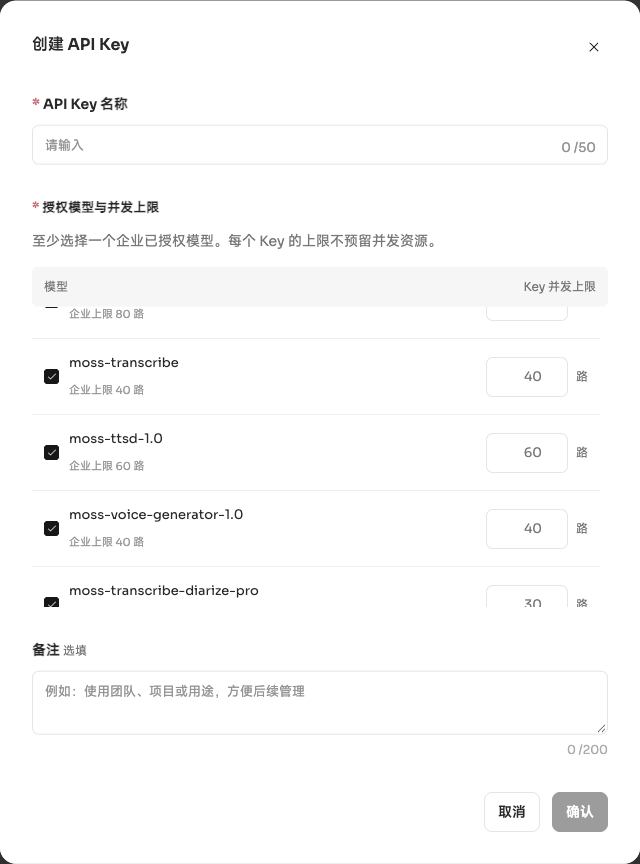
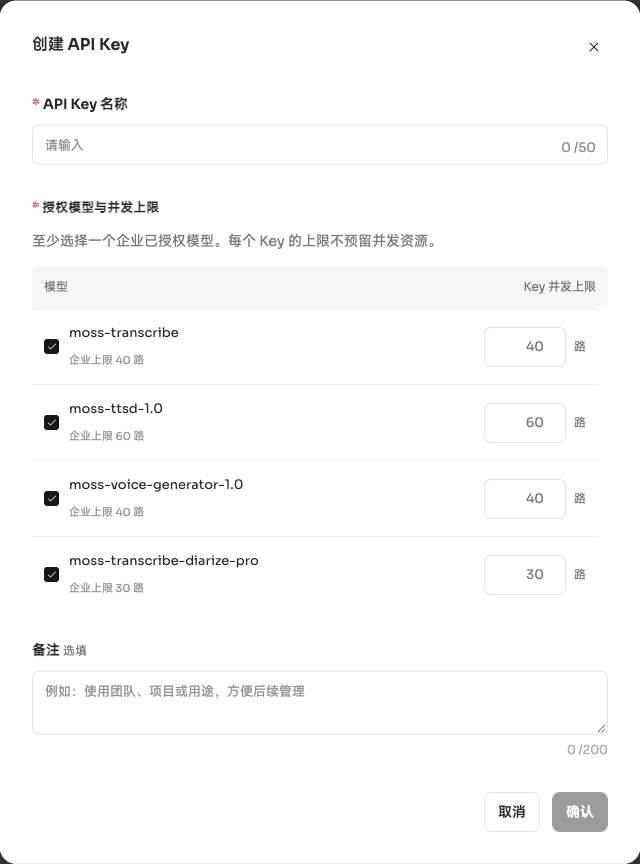
docs: replace stale scrollbar comparison screenshots

diff --git a/prd/platform/PRD-Moss-API-MVP-P0-飞书版.md b/prd/platform/PRD-Moss-API-MVP-P0-飞书版.md
@@ -156,9 +156,9 @@ Owner 能用一把 Key 对应一个项目或用途，快速知道哪些模型可
 
 用量概览 / 请求明细切换时，白色选中背景平滑移动 220ms；鼠标和键盘切换均保留当前滚动位置，不自动回到顶部，也不因内容变短向上跳动。选中页签与内容面板保持无障碍关联；系统要求减少动态效果时取消动画。企业、个人设计稿按独立区域排布。
 
-共用组件覆盖创建、编辑、启停、删除、一次性密钥、请求详情、账单预览、两种导出及积分弹窗。桌面统一 32px 内边距，窄屏 20px，标题、正文、操作区左右对齐；保留各类内容所需宽度与字号。滚动条由页面统一控制，静止时隐藏，滚动时立即显示；停止滚动 800ms 后，以 180ms 淡出。悬停或拖动滑块时保持可见，拖动结束后恢复自动隐藏。页面、横向表格、筛选菜单、授权模型列表、账单预览和导出明细共用此规则；不再因普通鼠标的系统设置而常显。滑块为 #808080，轨道透明，显示和隐藏不改变内容宽度或滚动位置；无溢出时不显示。保留原生滚轮、触控、键盘和拖动能力；减少动态效果时跳过淡出动画，高对比模式使用系统可见滚动条。表单与模型列表仅相邻行间分隔，最后一行无底线。
+共用组件覆盖创建、编辑、启停、删除、一次性密钥、请求详情、账单预览、两种导出及积分弹窗。桌面统一 32px 内边距，窄屏 20px，标题、正文、操作区左右对齐；保留各类内容所需宽度与字号。滚动条由页面统一控制，静止时隐藏，滚动时立即显示；停止滚动 800ms 后，以 180ms 淡出。悬停或拖动滑块时保持可见，拖动结束后恢复自动隐藏。页面、横向表格、筛选菜单、授权模型列表、账单预览和导出明细共用此规则；不再因普通鼠标的系统设置而常显。原生滚动条宽 10px，滑块两侧各留 1px 透明边框，可见灰色部分约 8px；下拉菜单滑块宽 8px。滑块为 #808080，轨道透明，显示和隐藏不改变内容宽度或滚动位置；无溢出时不显示。保留原生滚轮、触控、键盘和拖动能力；减少动态效果时跳过淡出动画，高对比模式使用系统可见滚动条。表单与模型列表仅相邻行间分隔，最后一行无底线。
 
-![2026-10-17｜滚动时滑块显示；页面统一控制可见性，保留原生滚动。](assets/20261017-scrollbars/scrolling.png)
+![2026-10-17｜滚动时滑块显示；最新正式页面实拍，可见灰色滑块约 8px。](assets/20261017-scrollbars/scrolling.png)
 
 ![2026-10-17｜相同滚动位置静止后滑块隐藏；内容宽度和位置保持不变。](assets/20261017-scrollbars/idle.png)
 
